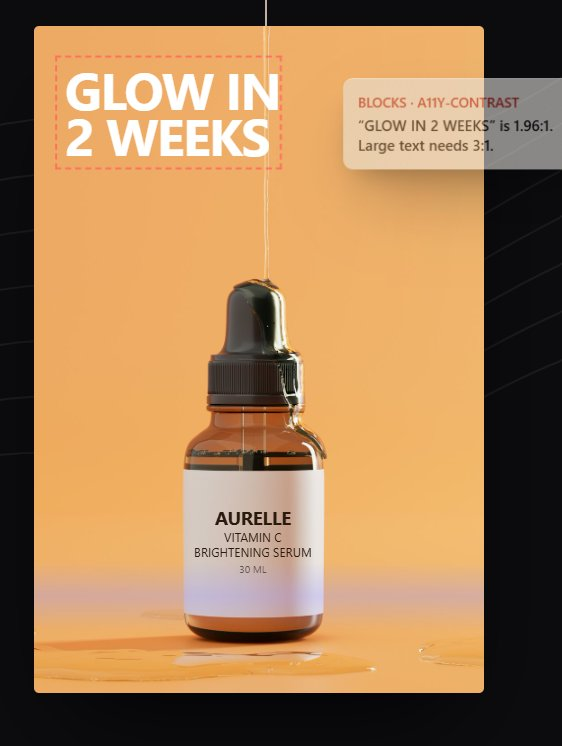
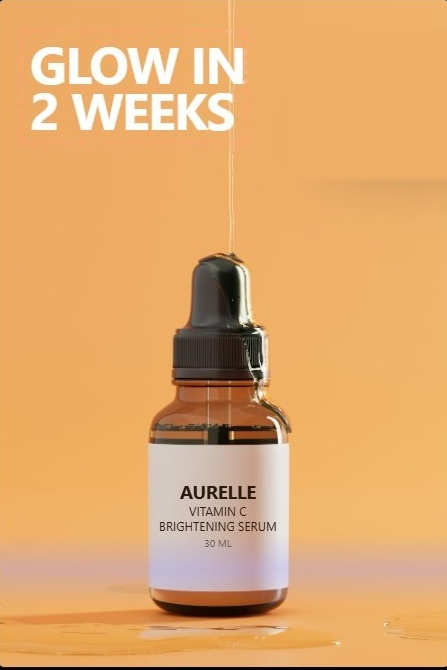
Completed

diff --git a/frontend/src/components/LandingPage.tsx b/frontend/src/components/LandingPage.tsx
@@ -798,11 +798,11 @@ export const LandingPage: React.FC<LandingPageProps> = ({
                 </div>
 
                 {/* Visual Body with Real Serum Image & Live Scanning Effect */}
-                <div className="relative w-full h-[320px] sm:h-[350px] overflow-hidden bg-stone-100 flex items-center justify-center group">
+                <div className="relative w-full h-[320px] sm:h-[350px] overflow-hidden bg-stone-100 flex items-center justify-center group cursor-crosshair">
                   <img
                     src="/images/instagram_serum_pedestal.jpg"
                     alt="Aurelle Skin Vitamin C Serum on Pedestal"
-                    className="w-full h-full object-cover"
+                    className="w-full h-full object-cover transition-transform duration-700 ease-out group-hover:scale-105"
                   />
                   
                   {/* Multimodal AI Scanning Laser Line (Smooth top-to-bottom sweep) */}
@@ -814,16 +814,16 @@ export const LandingPage: React.FC<LandingPageProps> = ({
                     <div className="h-12 -mt-12 bg-gradient-to-t from-cyan-400/20 to-transparent pointer-events-none" />
                   </motion.div>
 
-                  {/* Red dashed detection bounding box */}
-                  <div className="absolute bottom-6 left-6 right-6 border-2 border-dashed border-rose-500 rounded p-1.5 pointer-events-none z-10 bg-rose-500/10">
+                  {/* Red dashed detection bounding box - Appears on Hover */}
+                  <div className="absolute bottom-6 left-6 right-6 border-2 border-dashed border-rose-500 rounded p-1.5 pointer-events-none z-10 bg-rose-500/10 opacity-0 group-hover:opacity-100 transition-opacity duration-300">
                     <div className="absolute -top-1 -left-1 w-2.5 h-2.5 border-t-2 border-l-2 border-rose-500" />
                     <div className="absolute -top-1 -right-1 w-2.5 h-2.5 border-t-2 border-r-2 border-rose-500" />
                     <div className="absolute -bottom-1 -left-1 w-2.5 h-2.5 border-b-2 border-l-2 border-rose-500" />
                     <div className="absolute -bottom-1 -right-1 w-2.5 h-2.5 border-b-2 border-r-2 border-rose-500" />
                   </div>
 
-                  {/* Floating Inspection Chip */}
-                  <div className="absolute top-4 right-4 bg-black/85 backdrop-blur-md border border-rose-500/60 shadow-xl rounded-xl p-2.5 max-w-[210px] text-left z-20 pointer-events-none">
+                  {/* Floating Inspection Chip - Appears only when pointing pointer in that image */}
+                  <div className="absolute top-4 right-4 bg-black/90 backdrop-blur-md border border-rose-500/70 shadow-2xl rounded-xl p-2.5 max-w-[210px] text-left z-20 pointer-events-none opacity-0 group-hover:opacity-100 translate-y-1.5 group-hover:translate-y-0 transition-all duration-300 ease-out">
                     <div className="text-[9.5px] font-mono font-bold text-rose-400 uppercase tracking-wider flex items-center gap-1.5">
                       <span className="w-1.5 h-1.5 rounded-full bg-rose-500 animate-ping" />
                       <span>BLOCKS · VLM EVIDENCE</span>
@@ -878,11 +878,11 @@ export const LandingPage: React.FC<LandingPageProps> = ({
                 </div>
 
                 {/* Banner Body with Real Uploaded Serum Image & Live Scanning Effect */}
-                <div className="relative w-full h-[280px] sm:h-[300px] overflow-hidden bg-amber-50 group">
+                <div className="relative w-full h-[280px] sm:h-[300px] overflow-hidden bg-amber-50 group cursor-crosshair">
                   <img
                     src="/images/serum_scan_glow.jpg"
                     alt="Aurelle Glow In 2 Weeks Banner"
-                    className="w-full h-full object-cover"
+                    className="w-full h-full object-cover object-top transition-transform duration-700 ease-out group-hover:scale-105"
                   />
                   
                   {/* Scanning Laser Beam */}
@@ -894,16 +894,16 @@ export const LandingPage: React.FC<LandingPageProps> = ({
                     <div className="h-10 -mt-10 bg-gradient-to-t from-rose-400/20 to-transparent pointer-events-none" />
                   </motion.div>
 
-                  {/* Red dashed detection bounding box around "GLOW IN 2 WEEKS" */}
-                  <div className="absolute top-3 left-3 w-40 h-16 border-2 border-dashed border-rose-500 rounded p-1 pointer-events-none z-10 bg-rose-500/10">
+                  {/* Red dashed detection bounding box around "GLOW IN 2 WEEKS" - Appears on Hover */}
+                  <div className="absolute top-3 left-3 w-40 h-16 border-2 border-dashed border-rose-500 rounded p-1 pointer-events-none z-10 bg-rose-500/10 opacity-0 group-hover:opacity-100 transition-opacity duration-300">
                     <div className="absolute -top-1 -left-1 w-2.5 h-2.5 border-t-2 border-l-2 border-rose-500" />
                     <div className="absolute -top-1 -right-1 w-2.5 h-2.5 border-t-2 border-r-2 border-rose-500" />
                     <div className="absolute -bottom-1 -left-1 w-2.5 h-2.5 border-b-2 border-l-2 border-rose-500" />
                     <div className="absolute -bottom-1 -right-1 w-2.5 h-2.5 border-b-2 border-r-2 border-rose-500" />
                   </div>
 
-                  {/* Floating Inspection Chip matching User Reference */}
-                  <div className="absolute top-3 right-3 bg-black/85 backdrop-blur-md border border-rose-500/60 shadow-xl rounded-xl p-2 max-w-[165px] text-left z-20 pointer-events-none">
+                  {/* Floating Inspection Chip - Appears only when pointing pointer in that image */}
+                  <div className="absolute top-3 right-3 bg-black/90 backdrop-blur-md border border-rose-500/70 shadow-2xl rounded-xl p-2 max-w-[165px] text-left z-20 pointer-events-none opacity-0 group-hover:opacity-100 translate-y-1.5 group-hover:translate-y-0 transition-all duration-300 ease-out">
                     <div className="text-[9px] font-mono font-bold text-rose-400 uppercase tracking-wider flex items-center gap-1">
                       <span className="w-1.5 h-1.5 rounded-full bg-rose-500 animate-ping" />
                       <span>BLOCKS · A11Y</span>
@@ -943,11 +943,11 @@ export const LandingPage: React.FC<LandingPageProps> = ({
                 </div>
 
                 {/* Email Visual with Live Scanning Effect */}
-                <div className="relative w-full h-[180px] sm:h-[195px] overflow-hidden bg-stone-100 flex items-center justify-center group">
+                <div className="relative w-full h-[180px] sm:h-[195px] overflow-hidden bg-stone-100 flex items-center justify-center group cursor-crosshair">
                   <img
                     src="/images/email_swatches_leaves.jpg"
                     alt="Diwali Campaign Swatches"
-                    className="w-full h-full object-cover"
+                    className="w-full h-full object-cover transition-transform duration-700 ease-out group-hover:scale-105"
                   />
                   
                   {/* Scanning Laser Beam */}
@@ -959,8 +959,16 @@ export const LandingPage: React.FC<LandingPageProps> = ({
                     <div className="h-8 -mt-8 bg-gradient-to-t from-cyan-400/20 to-transparent pointer-events-none" />
                   </motion.div>
 
-                  {/* Floating Inspection Chip */}
-                  <div className="absolute top-3 right-3 bg-black/85 backdrop-blur-md border border-rose-500/60 shadow-xl rounded-xl p-2 max-w-[190px] text-left z-20 pointer-events-none">
+                  {/* Red dashed detection bounding box around swatches - Appears on Hover */}
+                  <div className="absolute inset-x-6 top-3 bottom-3 border-2 border-dashed border-rose-500 rounded p-1.5 pointer-events-none z-10 bg-rose-500/10 opacity-0 group-hover:opacity-100 transition-opacity duration-300">
+                    <div className="absolute -top-1 -left-1 w-2.5 h-2.5 border-t-2 border-l-2 border-rose-500" />
+                    <div className="absolute -top-1 -right-1 w-2.5 h-2.5 border-t-2 border-r-2 border-rose-500" />
+                    <div className="absolute -bottom-1 -left-1 w-2.5 h-2.5 border-b-2 border-l-2 border-rose-500" />
+                    <div className="absolute -bottom-1 -right-1 w-2.5 h-2.5 border-b-2 border-r-2 border-rose-500" />
+                  </div>
+
+                  {/* Floating Inspection Chip - Appears only when pointing pointer in that image */}
+                  <div className="absolute top-3 right-3 bg-black/90 backdrop-blur-md border border-rose-500/70 shadow-2xl rounded-xl p-2 max-w-[190px] text-left z-20 pointer-events-none opacity-0 group-hover:opacity-100 translate-y-1.5 group-hover:translate-y-0 transition-all duration-300 ease-out">
                     <div className="text-[9px] font-mono font-bold text-rose-400 uppercase tracking-wider flex items-center gap-1">
                       <span className="w-1.5 h-1.5 rounded-full bg-rose-500 animate-ping" />
                       <span>BLOCKS · EMBARGO</span>
